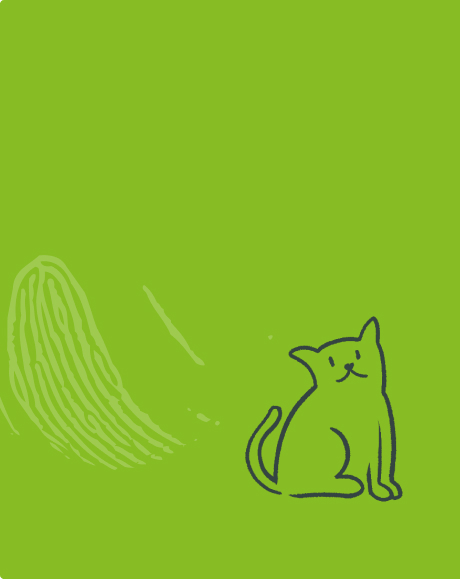
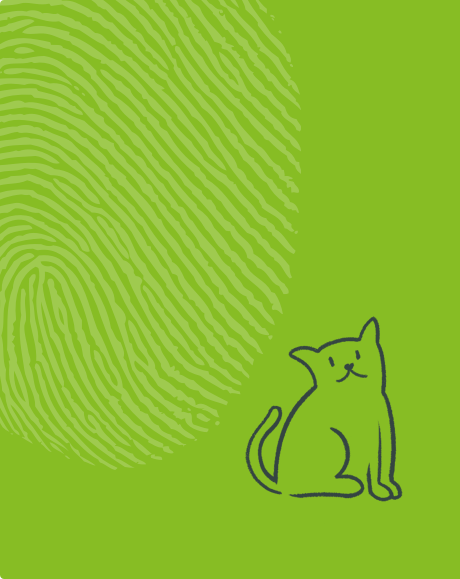
Merged in HP-244/responsive-auth-pages (pull request #71)
Add responsive to auth pages [Closes HP-244]

* feat(auth pages): adding responsive

* lint fixes

* feat: add mediaQuery template, fix env variable

* fix: lint fixes

* refactor: mediaQueryTemplate

* fix: remove unneded styles

* refactor: auth pages styles media queries

* fix: add header to check email page, update responsive on auth pages

* refactor: media query styles

* fix: revert remove CTA on homepage

* fix(auth pages): styles

* fix(login page): update image for different sizes

* fix(register page): handle resize, add different images

* fix(auth pages): rename variables

* fix: linter

* fix: comment

* fix(route wrapper): hide CTA for logged in user

* hotfix

* fix: lint fixes

* fix: add image for register tablet version

* feat: add responsive to branded registration on tablet

* feat: branded registration responsive page

* lint fixes

* fix: replace handle image from js to media queries

Approved-by: Roman Tsegelskyi <roman.tsegelskyi@eleken.co>
Approved-by: Andriy Tsaryov <andriy.tsaryov@eleken.co>

Changed region(s): [[0.0, 0.0, 0.6696, 0.7772]]

diff --git a/src/pages/RegisterPage/index.js b/src/pages/RegisterPage/index.js
@@ -27,17 +27,22 @@ import api from './../../api'
 import registerFingerprintTop from './../../assets/images/registerFingerprintTop.png'
 import registerFingerprintBot from './../../assets/images/registerFingerprintBot.png'
 import registerActionCardImage from './../../assets/images/registerActionCard.jpg'
+import registerActionCardImageTablet from './../../assets/images/registerActionCardImageTablet.png'
 import registerBrandedPhotoLeaves from './../../assets/images/registerBrandedPhotoLeaves.png'
 import arrowDownIcon from './../../assets/icons/arrowDown.svg'
 import infoFillIcon from './../../assets/icons/infoFill.svg'
 import infoOutlineIcon from './../../assets/icons/infoOutline.svg'
 import colors from '../../config/colors'
 import PageMetadata from '../../components/PageMetadata'
+import media from '../../utils/mediaQueryTemplate'
 
 export const BrandedBlockWrap = styled.div`
   position: relative;
   height: 100%;
   color: ${colors.white};
+  ${media.tablet`
+    height: 275px;
+  `}
 `
 
 export const BrandedBlock = styled.div`
@@ -49,14 +54,26 @@ export const BrandedBlock = styled.div`
   padding: 50px;
   text-align: center;
   position: relative;
+  ${media.desktop`
+    padding: 15px;
+  `}
+  ${media.tablet`
+    padding: 10px;
+    top: 5px
+  `}
 `
 
-export const BrandedBlockPhotoWrap = styled.div`
+export const BrandedBlockPhotoBlock = styled.div`
   height: 133px;
   width: 133px;
   border-radius: 50%;
   overflow: hidden;
   margin-bottom: 28px;
+  ${media.tablet`
+    height: 64px;
+    width: 64px;
+    margin-bottom: 10px;
+  `}
 `
 
 export const BrandedBlockPhoto = styled.img`
@@ -65,7 +82,7 @@ export const BrandedBlockPhoto = styled.img`
 `
 
 export const BrandedBlockPhotoBg = styled.div`
-  background-color: white;
+  background-color: ${colors.white};
   height: 100%;
   position: relative;
 `
@@ -84,8 +101,17 @@ export const BrandedBlockLeaves = styled.img`
   height: 70px;
   width: auto;
   position: absolute;
-  top: 90px;
-  right: 149px;
+  top: -33px;
+  right: -11px;
+  ${media.desktop`
+    top: -37px;
+    right: -10px;
+  `}
+  ${media.tablet`
+    height: 33px;
+    top: -15px;
+    right: -3px;
+  `}
 `
 
 export const BrandedBlockHeading = styled.h2`
@@ -94,10 +120,16 @@ export const BrandedBlockHeading = styled.h2`
   margin: 0 0 20px 0;
   line-height: 37px;
   max-width: 300px;
+  ${media.desktop`
+    display: none;
+  `}
 `
 
 export const BrandedBlockDescription = styled.p`
   font-size: 16px;
+  ${media.tablet`
+    max-width: 300px;
+  `}
 `
 
 export const BrandedBlockFingerprintTopImg = styled.img`
@@ -113,6 +145,43 @@ export const BrandedBlockFingerprintBotImg = styled.img`
   right: 0px;
   height: 80px;
   width: auto;
+`
+
+const StyledActionCard = styled(ActionCard)`
+  ${media.tablet`
+    flex-direction: column;
+  `}
+`
+
+const StyledActionCardWrapper = styled(ActionCardWrapper)`
+  ${media.tablet`
+    padding: 0px;
+  `}
+`
+
+const FormWrap = styled.div`
+  width: 300px;
+  ${media.tablet`
+    margin-top: 30px;
+  `}
+`
+
+const DogImgDesktop = styled.img`
+  display: block;
+  ${media.desktop`
+    display: none;
+  `}
+`
+
+const DogImgTablet = styled.img`
+  display: none;
+  ${media.desktop`
+    display: block;
+  `}
+`
+
+const BrandedBlockPhotoWrap = styled.div`
+  position: relative;
 `
 
 class RegisterPage extends Component {
@@ -192,25 +261,27 @@ class RegisterPage extends Component {
 
     return (
       <Fragment>
-        <PageMetadata pageName="profilePage" />
-        <ActionCardWrapper>
-          <ActionCard>
-            <ActionCardLeftHalf span={12}>
+        <PageMetadata pageName="registerPage" />
+        <StyledActionCardWrapper>
+          <StyledActionCard>
+            <ActionCardLeftHalf span={12} hideOnTablet={!referrer}>
               {referrer ? (
                 <BrandedBlockWrap>
                   <BrandedBlockFingerprintTopImg src={registerFingerprintTop} />
                   <BrandedBlock>
                     <BrandedBlockPhotoWrap>
                       <BrandedBlockLeaves src={registerBrandedPhotoLeaves} />
-                      <BrandedBlockPhotoBg>
-                        {referrer.photo ? (
-                          <BrandedBlockPhoto src={referrer.photo} />
-                        ) : (
-                          <BrandedBlockReferrerName>
-                            {referrer.fullName.slice(0, 1).toUpperCase()}
-                          </BrandedBlockReferrerName>
-                        )}
-                      </BrandedBlockPhotoBg>
+                      <BrandedBlockPhotoBlock>
+                        <BrandedBlockPhotoBg>
+                          {referrer.photo ? (
+                            <BrandedBlockPhoto src={referrer.photo} />
+                          ) : (
+                            <BrandedBlockReferrerName>
+                              {referrer.fullName.slice(0, 1).toUpperCase()}
+                            </BrandedBlockReferrerName>
+                          )}
+                        </BrandedBlockPhotoBg>
+                      </BrandedBlockPhotoBlock>
                     </BrandedBlockPhotoWrap>
                     <BrandedBlockHeading>
                       <FormattedMessage id="app.registerPage.brandedBlock.heading" />
@@ -227,11 +298,14 @@ class RegisterPage extends Component {
                   <BrandedBlockFingerprintBotImg src={registerFingerprintBot} />
                 </BrandedBlockWrap>
               ) : (
-                <img src={registerActionCardImage} />
+                <Fragment>
+                  <DogImgTablet src={registerActionCardImageTablet} />
+                  <DogImgDesktop src={registerActionCardImage} />
+                </Fragment>
               )}
             </ActionCardLeftHalf>
             <ActionCardRightHalf span={12}>
-              <div style={{ width: '300px' }}>
+              <FormWrap>
                 <ActionCardTitle>
                   <FormattedMessage id="app.registerPage.title" />
                 </ActionCardTitle>
@@ -335,10 +409,10 @@ class RegisterPage extends Component {
                     </span>
                   </ActionCardRegisterBlock>
                 </Form>
-              </div>
+              </FormWrap>
             </ActionCardRightHalf>
-          </ActionCard>
-        </ActionCardWrapper>
+          </StyledActionCard>
+        </StyledActionCardWrapper>
       </Fragment>
     )
   }

diff --git a/src/components/Styled/index.js b/src/components/Styled/index.js
@@ -9,11 +9,17 @@ import backgroundOceanContainerImage from './../../assets/images/backgroundOcean
 
 export const ActionCard = styled(Ant.Row)`
   border-radius: 5px;
-  height: 579px;
   overflow: hidden;
   width: 920px;
   position: relative;
   top: -50px;
+  height: 579px;
+  display: flex;
+  justify-content: center;
+  ${media.tablet`
+    margin-top: 60px;
+    height: auto;
+  `}
 `
 
 export const ActionCardForgotPasswordBlock = styled.div`
@@ -30,6 +36,14 @@ export const ActionCardFormWrapper = styled.div`
 export const ActionCardLeftHalf = styled(Ant.Col)`
   height: 100%;
   background: ${colors.green};
+  overflow: hidden;
+  ${media.desktop`
+    width: 241px;
+  `}
+  ${media.tablet`
+    ${props => props.hideOnTablet && 'display: none;'}
+    width: 100%;
+  `}
 `
 
 export const ActionCardRightHalf = styled(Ant.Col)`
@@ -38,6 +52,9 @@ export const ActionCardRightHalf = styled(Ant.Col)`
   display: flex;
   height: 100%;
   justify-content: center;
+  ${media.tablet`
+    width: 100%;
+  `}
 `
 
 export const PopoverTitle = styled.div`
@@ -164,8 +181,17 @@ export const ActionCardWrapper = styled.div`
     ${colors.lightGray} 50%
   );
   display: flex;
-  height: 100vh;
   justify-content: center;
+  padding: 30px;
+  height: 100vh;
+  ${media.desktop`
+    background: ${colors.ocean};
+  `}
+  ${media.tablet`
+    background: ${colors.white};
+    padding: 15px;
+    height: auto;
+  `}
 `
 
 export const FormItem = styled(Ant.Form.Item)`
@@ -608,6 +634,10 @@ export const OceanContainer = styled.div`
   display: flex;
   height: 100vh;
   justify-content: center;
+  ${media.tablet`
+    background: ${colors.white};
+    height: auto;
+  `}
 `
 
 export const OceanModal = styled.div`
@@ -615,6 +645,9 @@ export const OceanModal = styled.div`
   border-radius: 4px;
   padding: 70px;
   width: 440px;
+  ${media.tablet`
+    padding: 15px;
+  `}
 `
 
 export const OceanImage = styled.div`

diff --git a/src/pages/LoginPage/index.js b/src/pages/LoginPage/index.js
@@ -5,6 +5,7 @@ import PropTypes from 'prop-types'
 import { Button, Form } from 'antd'
 import { Link } from 'react-router-dom'
 import { injectIntl, FormattedMessage } from 'react-intl'
+import styled from 'styled-components'
 
 import { Creators as AccountCreators } from './../../redux/accountStore'
 import {
@@ -24,6 +25,22 @@ import InputForPassword from './../../components/InputForPassword'
 import handleFormError from './../../utils/handleFormError'
 import PageMetadata from '../../components/PageMetadata'
 import loginActionCardImage from './../../assets/images/loginActionCard.jpg'
+import loginActionCardImageTablet from './../../assets/images/loginActionCardTablet.jpg'
+import media from '../../utils/mediaQueryTemplate'
+
+const CatImgDesktop = styled.img`
+  display: block;
+  ${media.desktop`
+    display: none;
+  `}
+`
+
+const CatImgTablet = styled.img`
+  display: none;
+  ${media.desktop`
+    display: block;
+  `}
+`
 
 class LoginPage extends Component {
   handleSubmit = e => {
@@ -50,13 +67,15 @@ class LoginPage extends Component {
       intl: { formatMessage },
       isLoggingIn,
     } = this.props
+
     return (
       <Fragment>
         <PageMetadata pageName="loginPage" />
         <ActionCardWrapper>
           <ActionCard>
-            <ActionCardLeftHalf span={12}>
-              <img src={loginActionCardImage} />
+            <ActionCardLeftHalf span={12} hideOnTablet>
+              <CatImgTablet src={loginActionCardImageTablet} />
+              <CatImgDesktop src={loginActionCardImage} />
             </ActionCardLeftHalf>
             <ActionCardRightHalf span={12}>
               <ActionCardFormWrapper>

diff --git a/src/routeWrapper.js b/src/routeWrapper.js
@@ -68,7 +68,7 @@ const RouteWrapper = ({
                 <Layout.Content>
                   <Component {...props} />
                 </Layout.Content>
-                {!withoutCTA &&
+                {!withoutCTA && !user &&
                   ((brandedConfig && <brandedConfig.ctaComponent />) || (
                     <Cta />
                   ))}

diff --git a/src/appRouter.js b/src/appRouter.js
@@ -54,6 +54,7 @@ const AppRouter = () => {
             withoutHeader
             withoutCTA
             withoutFooter
+            withoutHeaderContent
           />
           <Route
             path="/account/dashboard"

diff --git a/src/utils/mediaQueryTemplate.js b/src/utils/mediaQueryTemplate.js
@@ -1,6 +1,6 @@
 import { css } from "styled-components";
 
-const sizes = {
+export const sizes = {
   largeDesktop: 1200,
   desktop: 992,
   tablet: 768,
